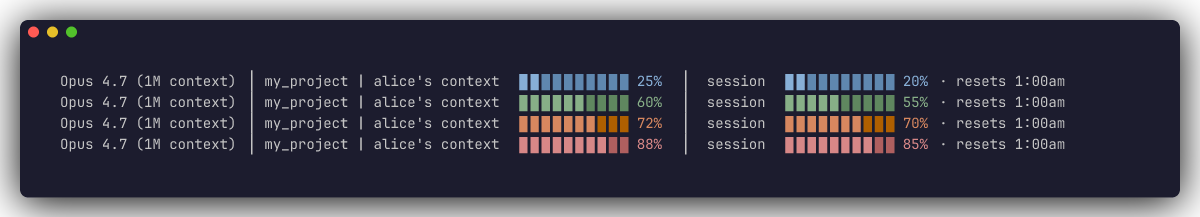
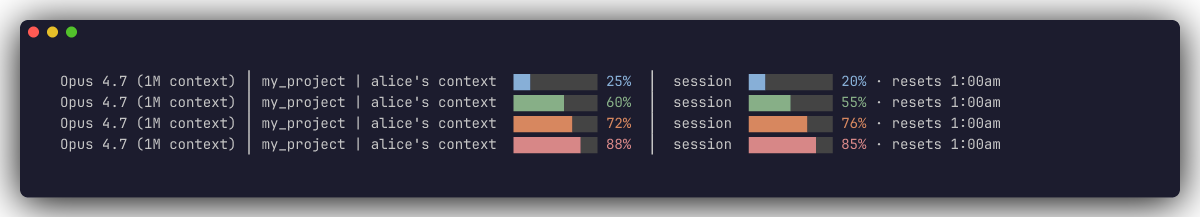
style: use neutral charcoal empty bar track for higher contrast
Previous per-threshold dim colors (67/65/130/131) shared hue with the
filled cells, which looked clean in screenshots but didn't make filled
vs empty cells distinct enough in real terminal use. Switch to a single
neutral 238 (#444444) for empty cells across all thresholds while
keeping the muted filled colors. Demo regenerated to match.

Changed region(s): [[0.185, 0.3318, 0.8942, 0.7189]]

diff --git a/statusline.js b/statusline.js
@@ -51,12 +51,13 @@ process.stdin.on('end', () => {
       const filled = Math.floor(usedPct / 10);
       const filledBar = '▇'.repeat(filled);
       const emptyBar = '▇'.repeat(10 - filled);
-      let bright, dim;
-      if (usedPct < 50) { bright = '\x1b[38;5;110m'; dim = '\x1b[38;5;67m'; }
-      else if (usedPct < 65) { bright = '\x1b[38;5;108m'; dim = '\x1b[38;5;65m'; }
-      else if (usedPct < 80) { bright = '\x1b[38;5;173m'; dim = '\x1b[38;5;130m'; }
-      else { bright = '\x1b[38;5;174m'; dim = '\x1b[38;5;131m'; }
-      return `${bright}${filledBar}\x1b[0m${dim}${emptyBar}\x1b[0m ${bright}${usedPct}%\x1b[0m`;
+      const empty = '\x1b[38;5;238m';
+      let bright;
+      if (usedPct < 50) bright = '\x1b[38;5;110m';
+      else if (usedPct < 65) bright = '\x1b[38;5;108m';
+      else if (usedPct < 80) bright = '\x1b[38;5;173m';
+      else bright = '\x1b[38;5;174m';
+      return `${bright}${filledBar}\x1b[0m${empty}${emptyBar}\x1b[0m ${bright}${usedPct}%\x1b[0m`;
     }
 
     function formatResetTime(unixSec) {
